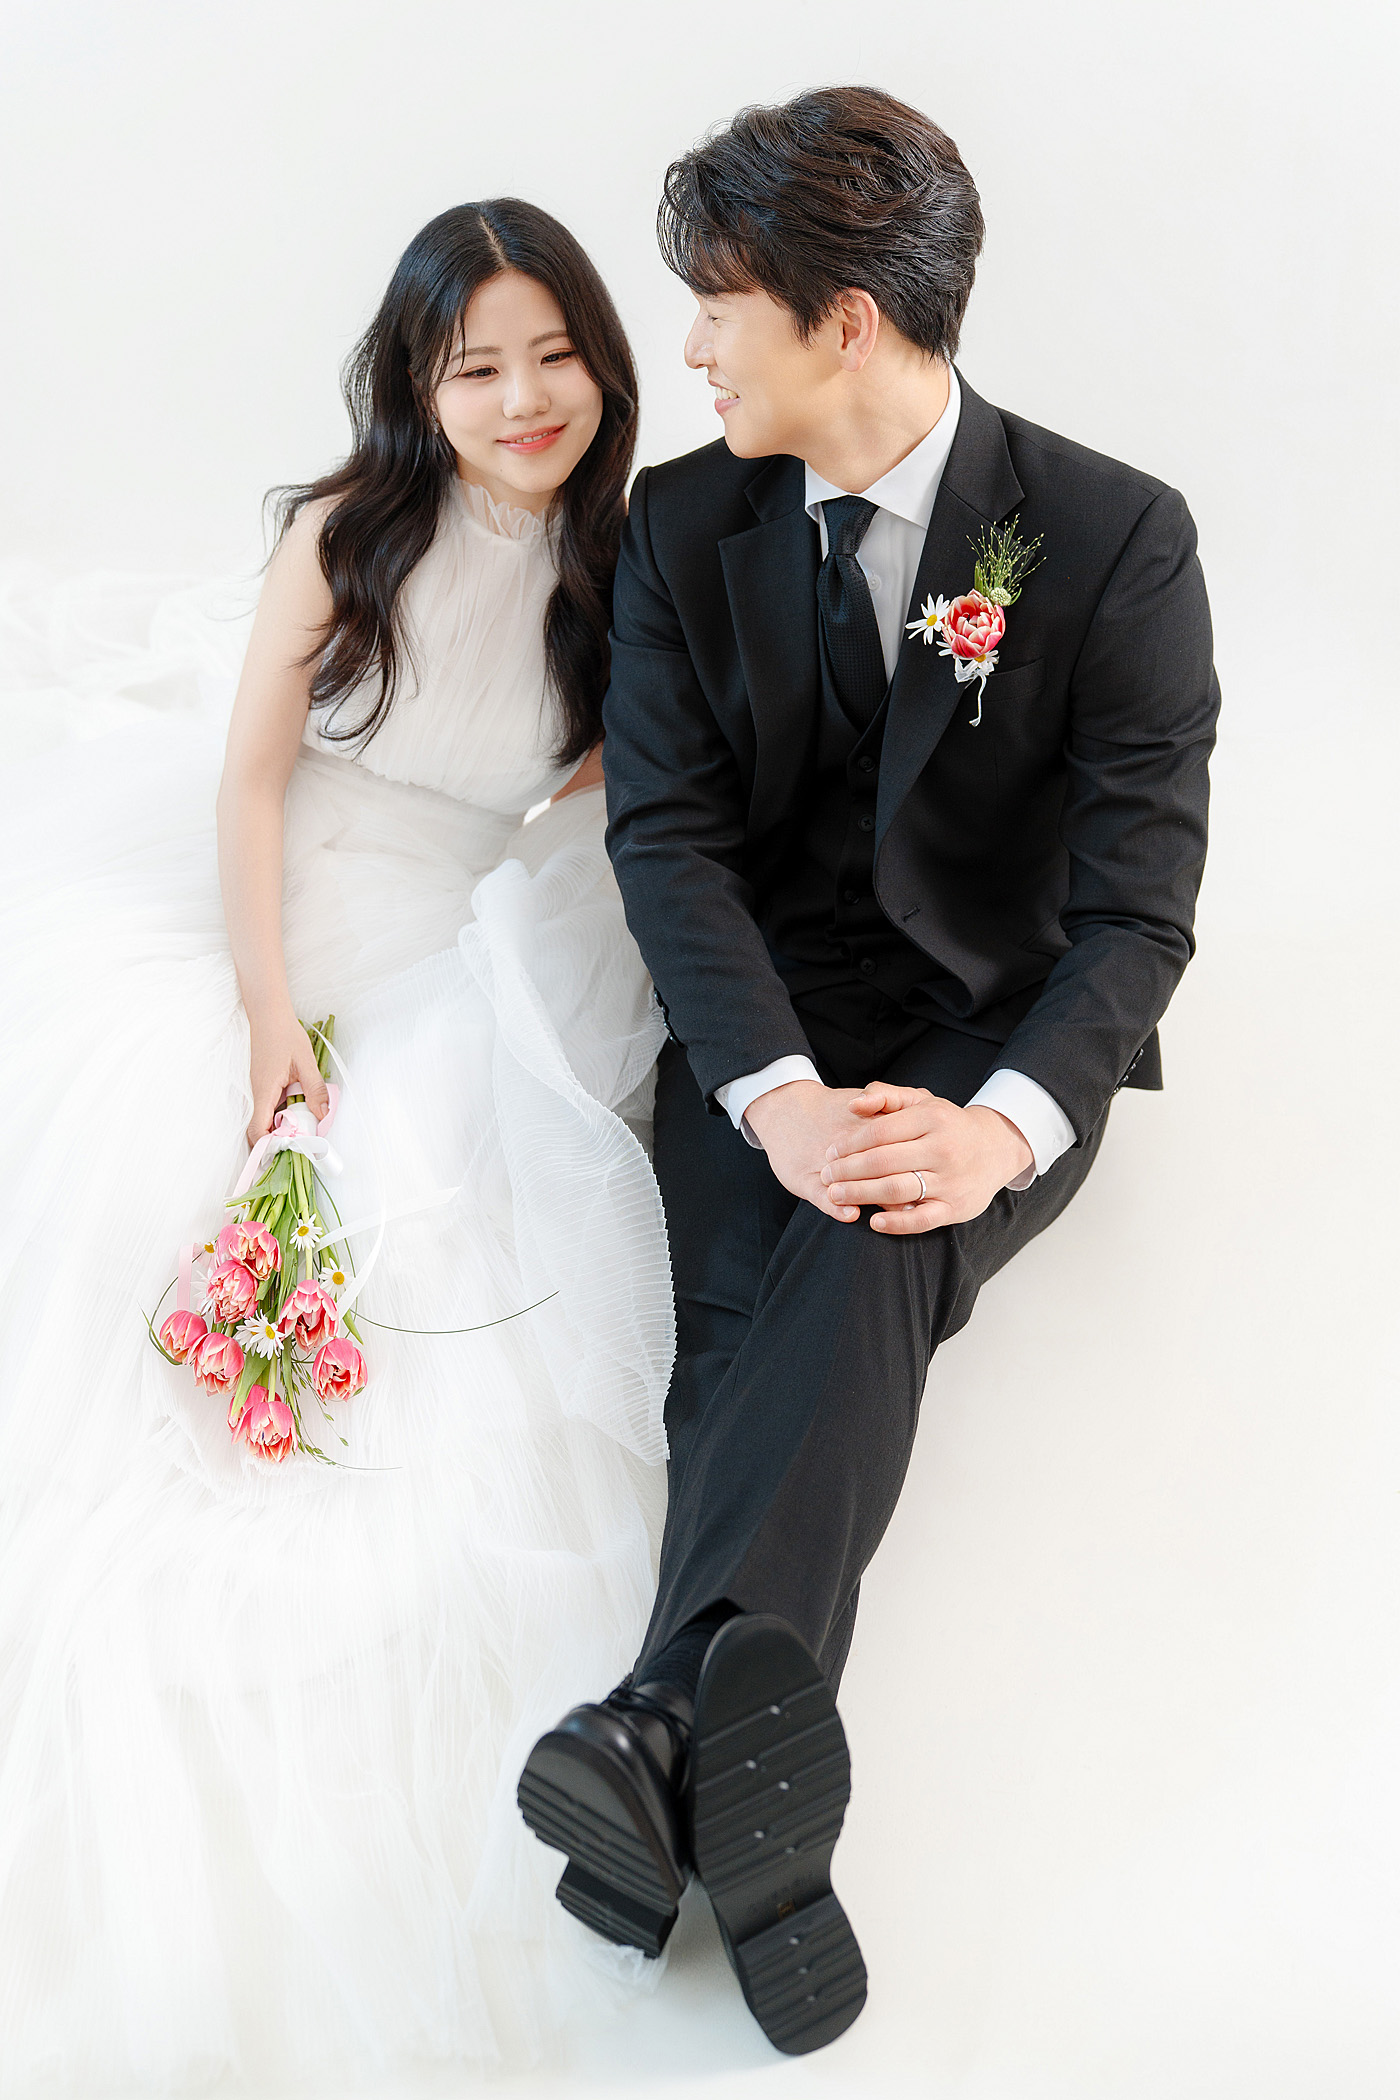
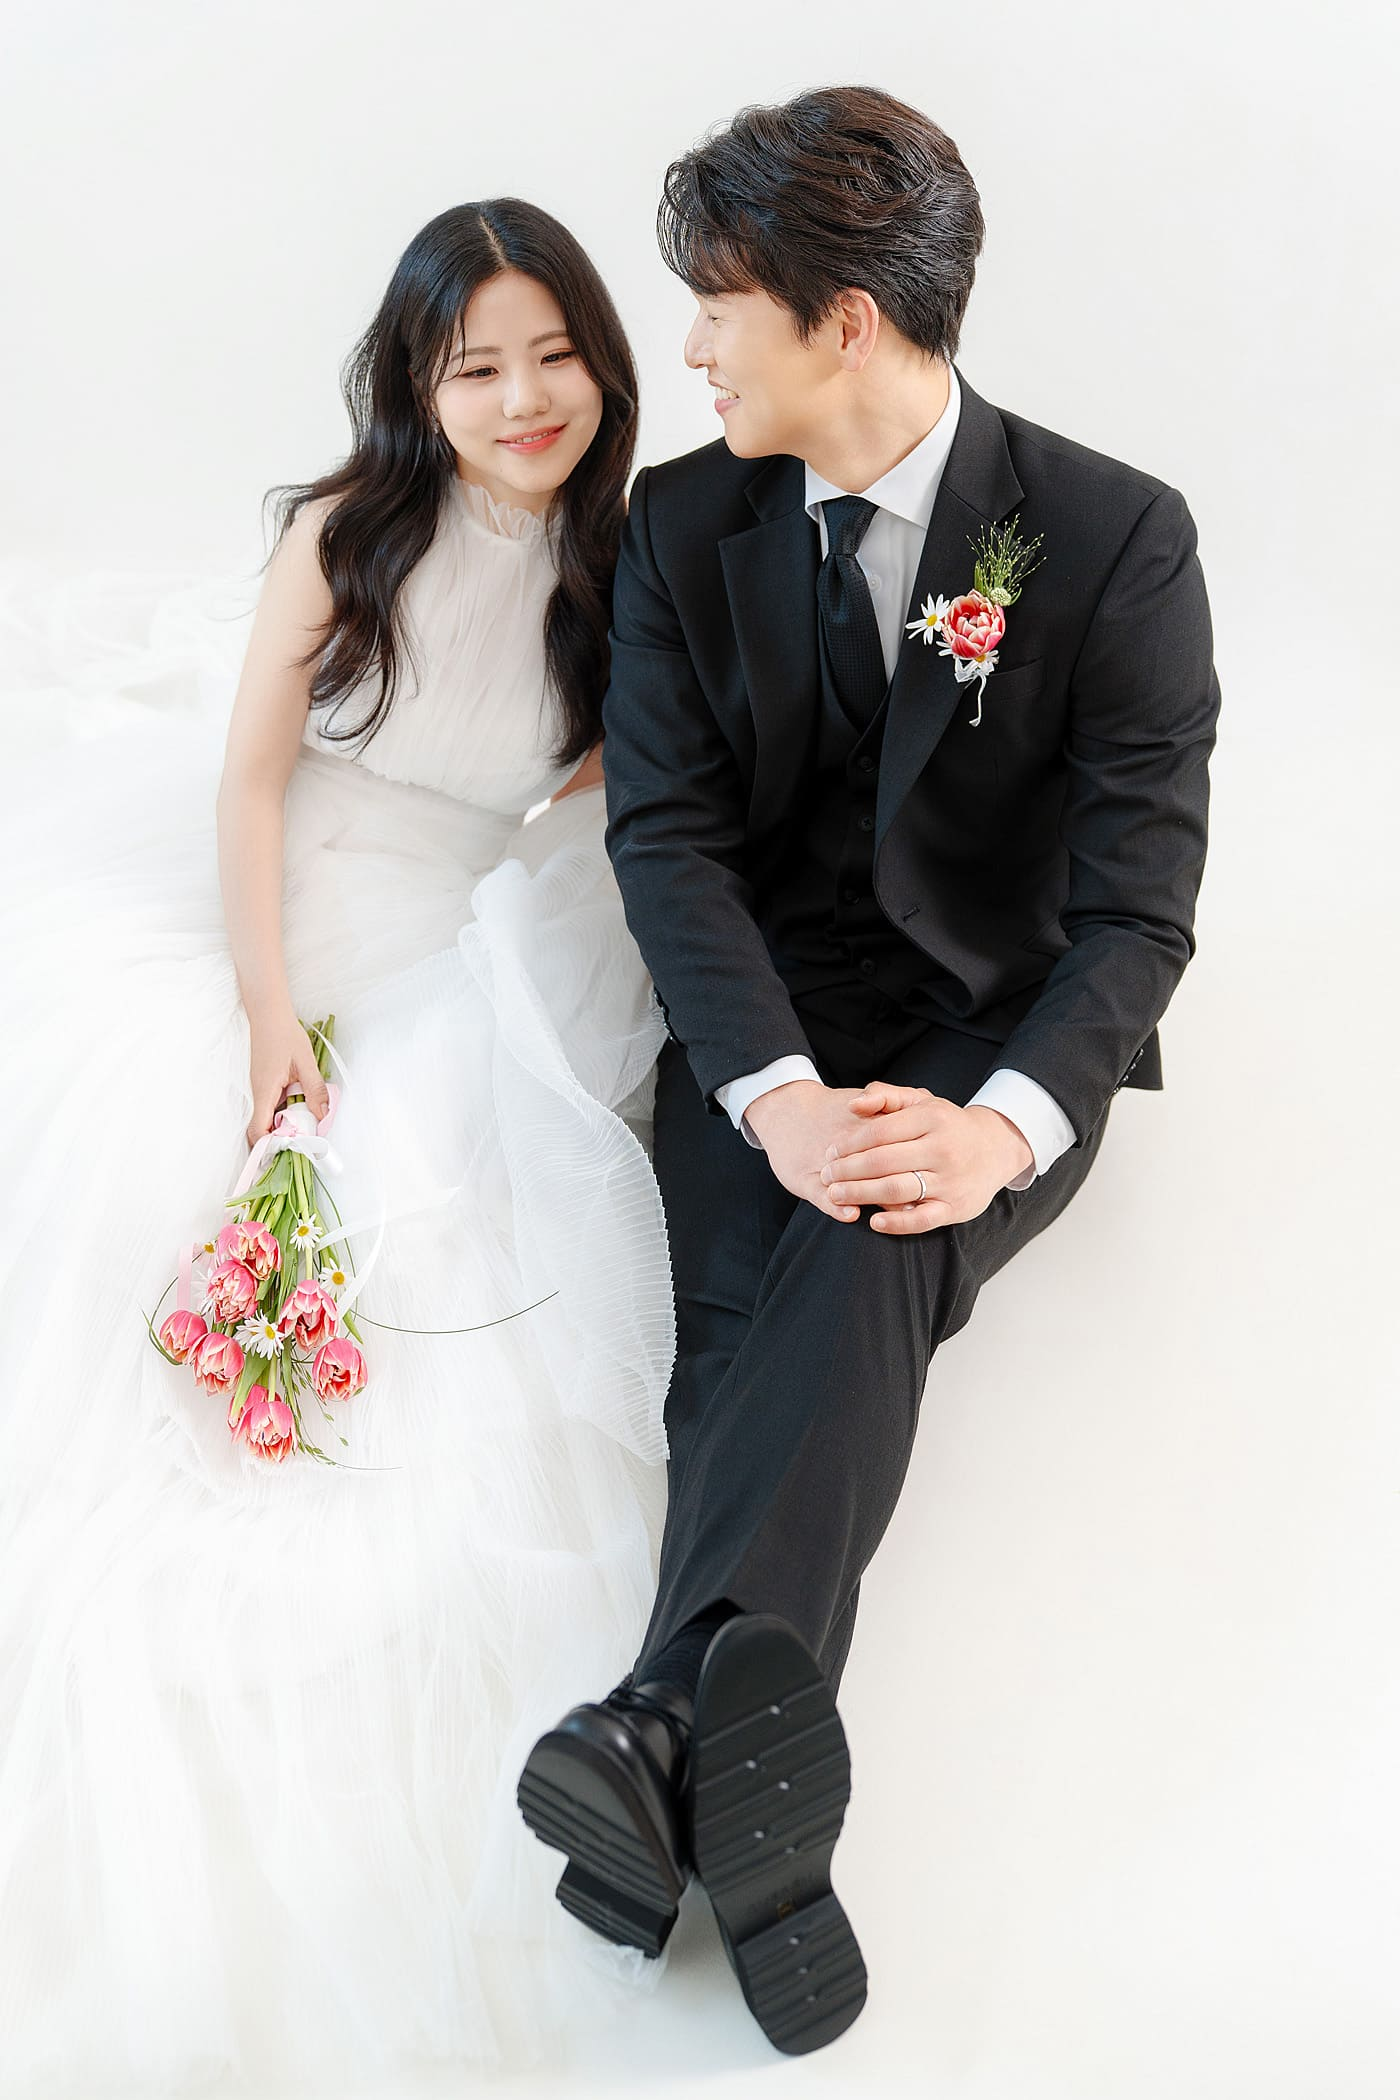
이미지 용량 최적화

diff --git a/components/LocationSection.tsx b/components/LocationSection.tsx
@@ -97,7 +97,7 @@ export default function LocationSection() {
         window.open(`https://map.naver.com/v5/search/${encodedAddress}`)
         break
       case "kakao":
-        window.open(`https://map.kakao.com/link/search/${encodedAddress}`)
+        window.open(`https://map.kakao.com/link/map/더포레스트웨딩,${fixedLat},${fixedLng}`)
         break
       case "google":
         window.open(`https://maps.google.com/maps?q=${encodedAddress}`)
